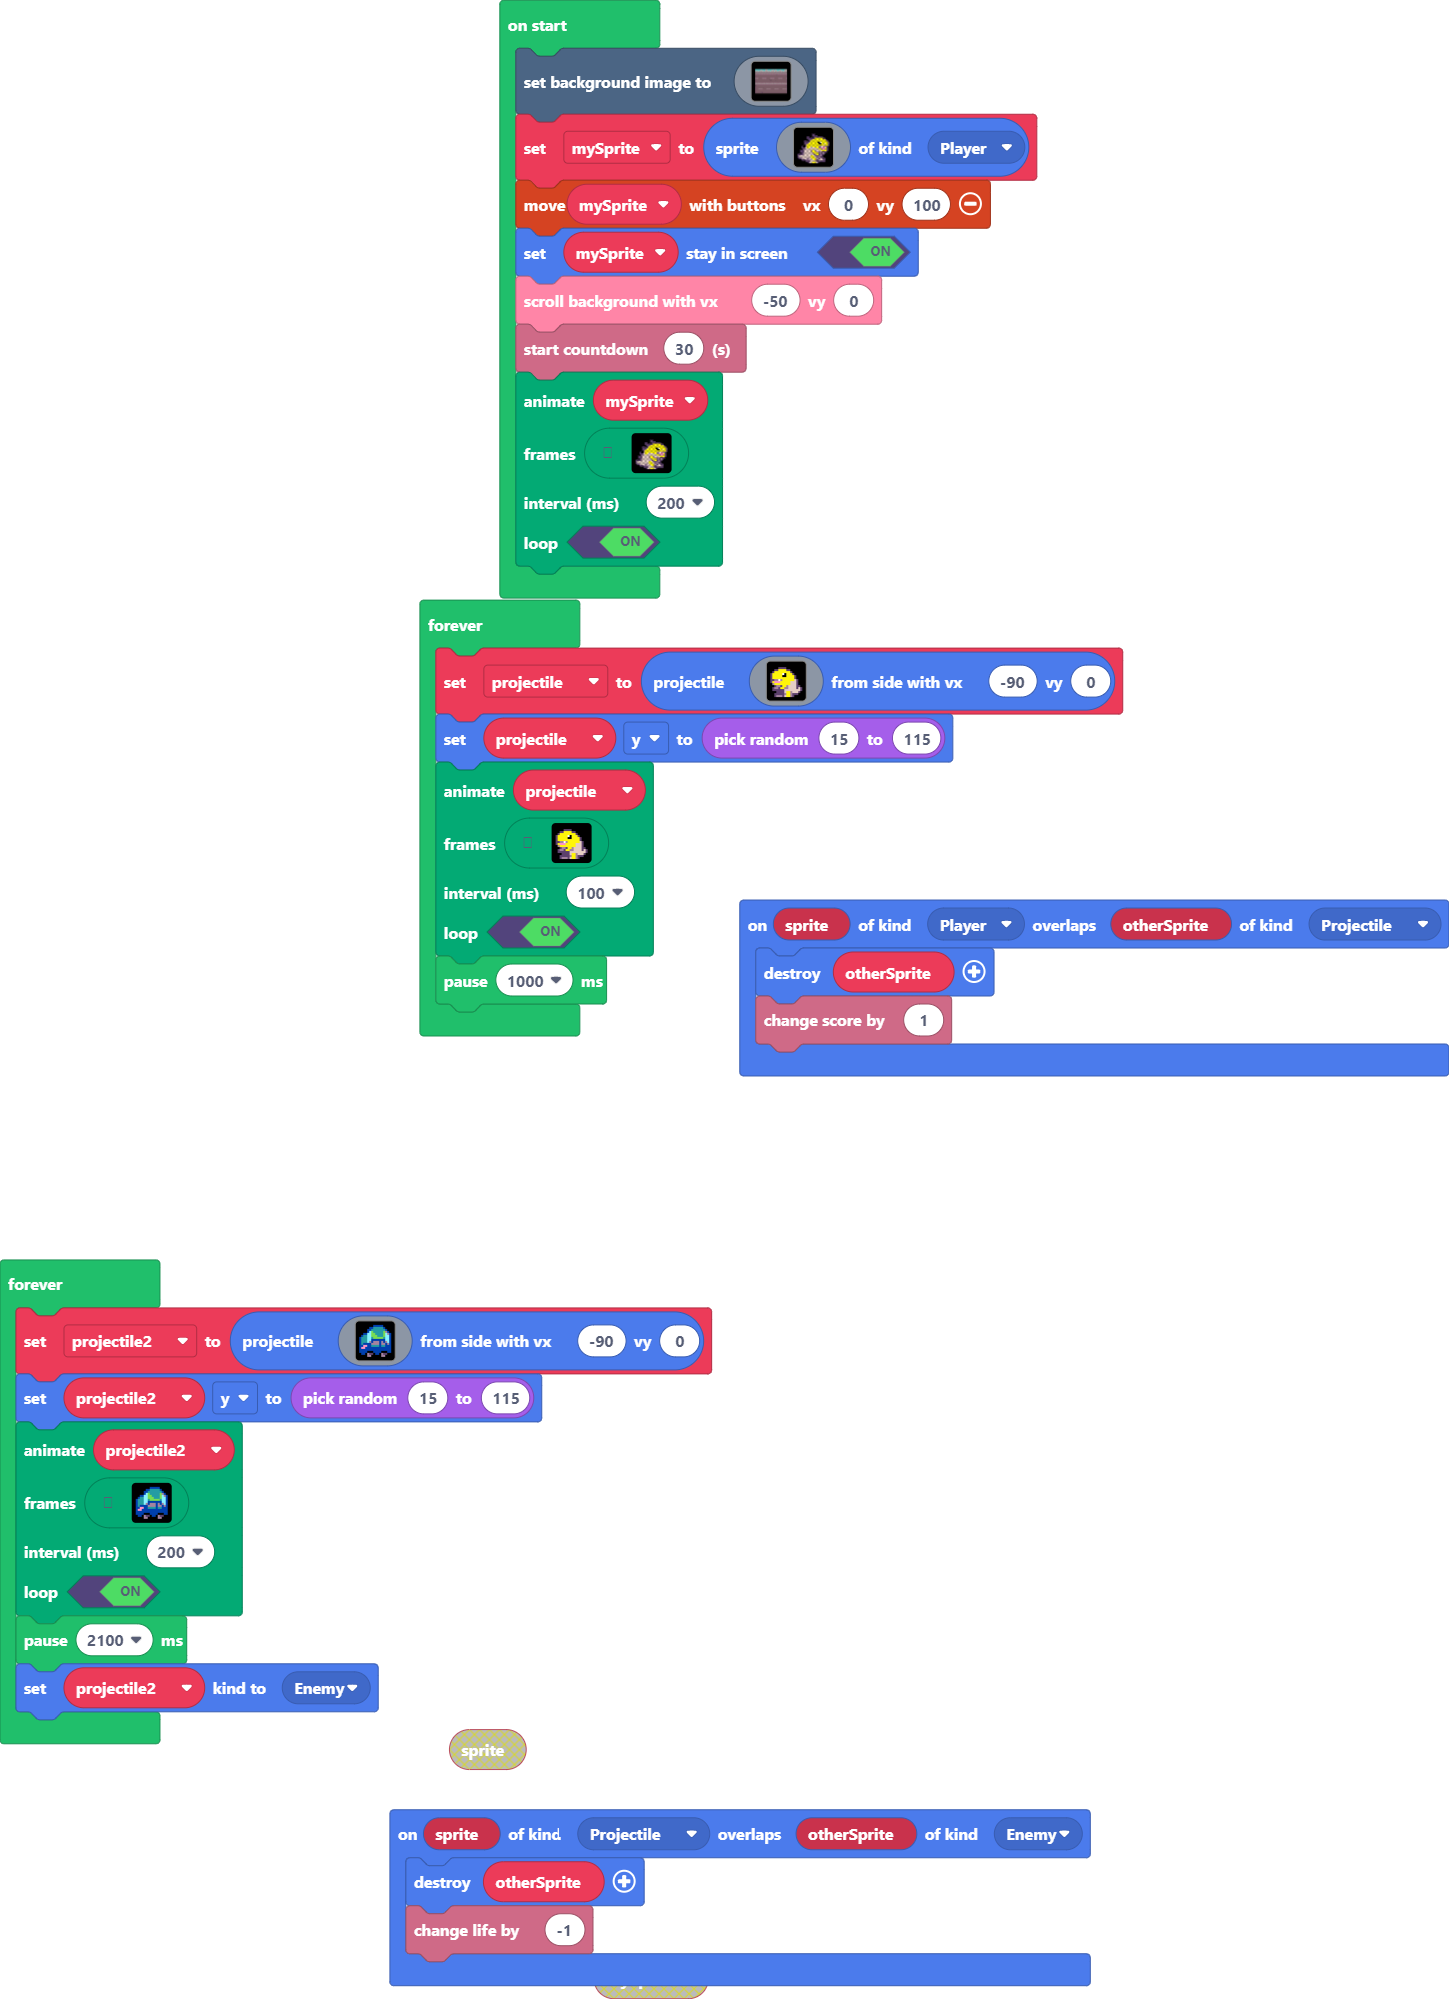
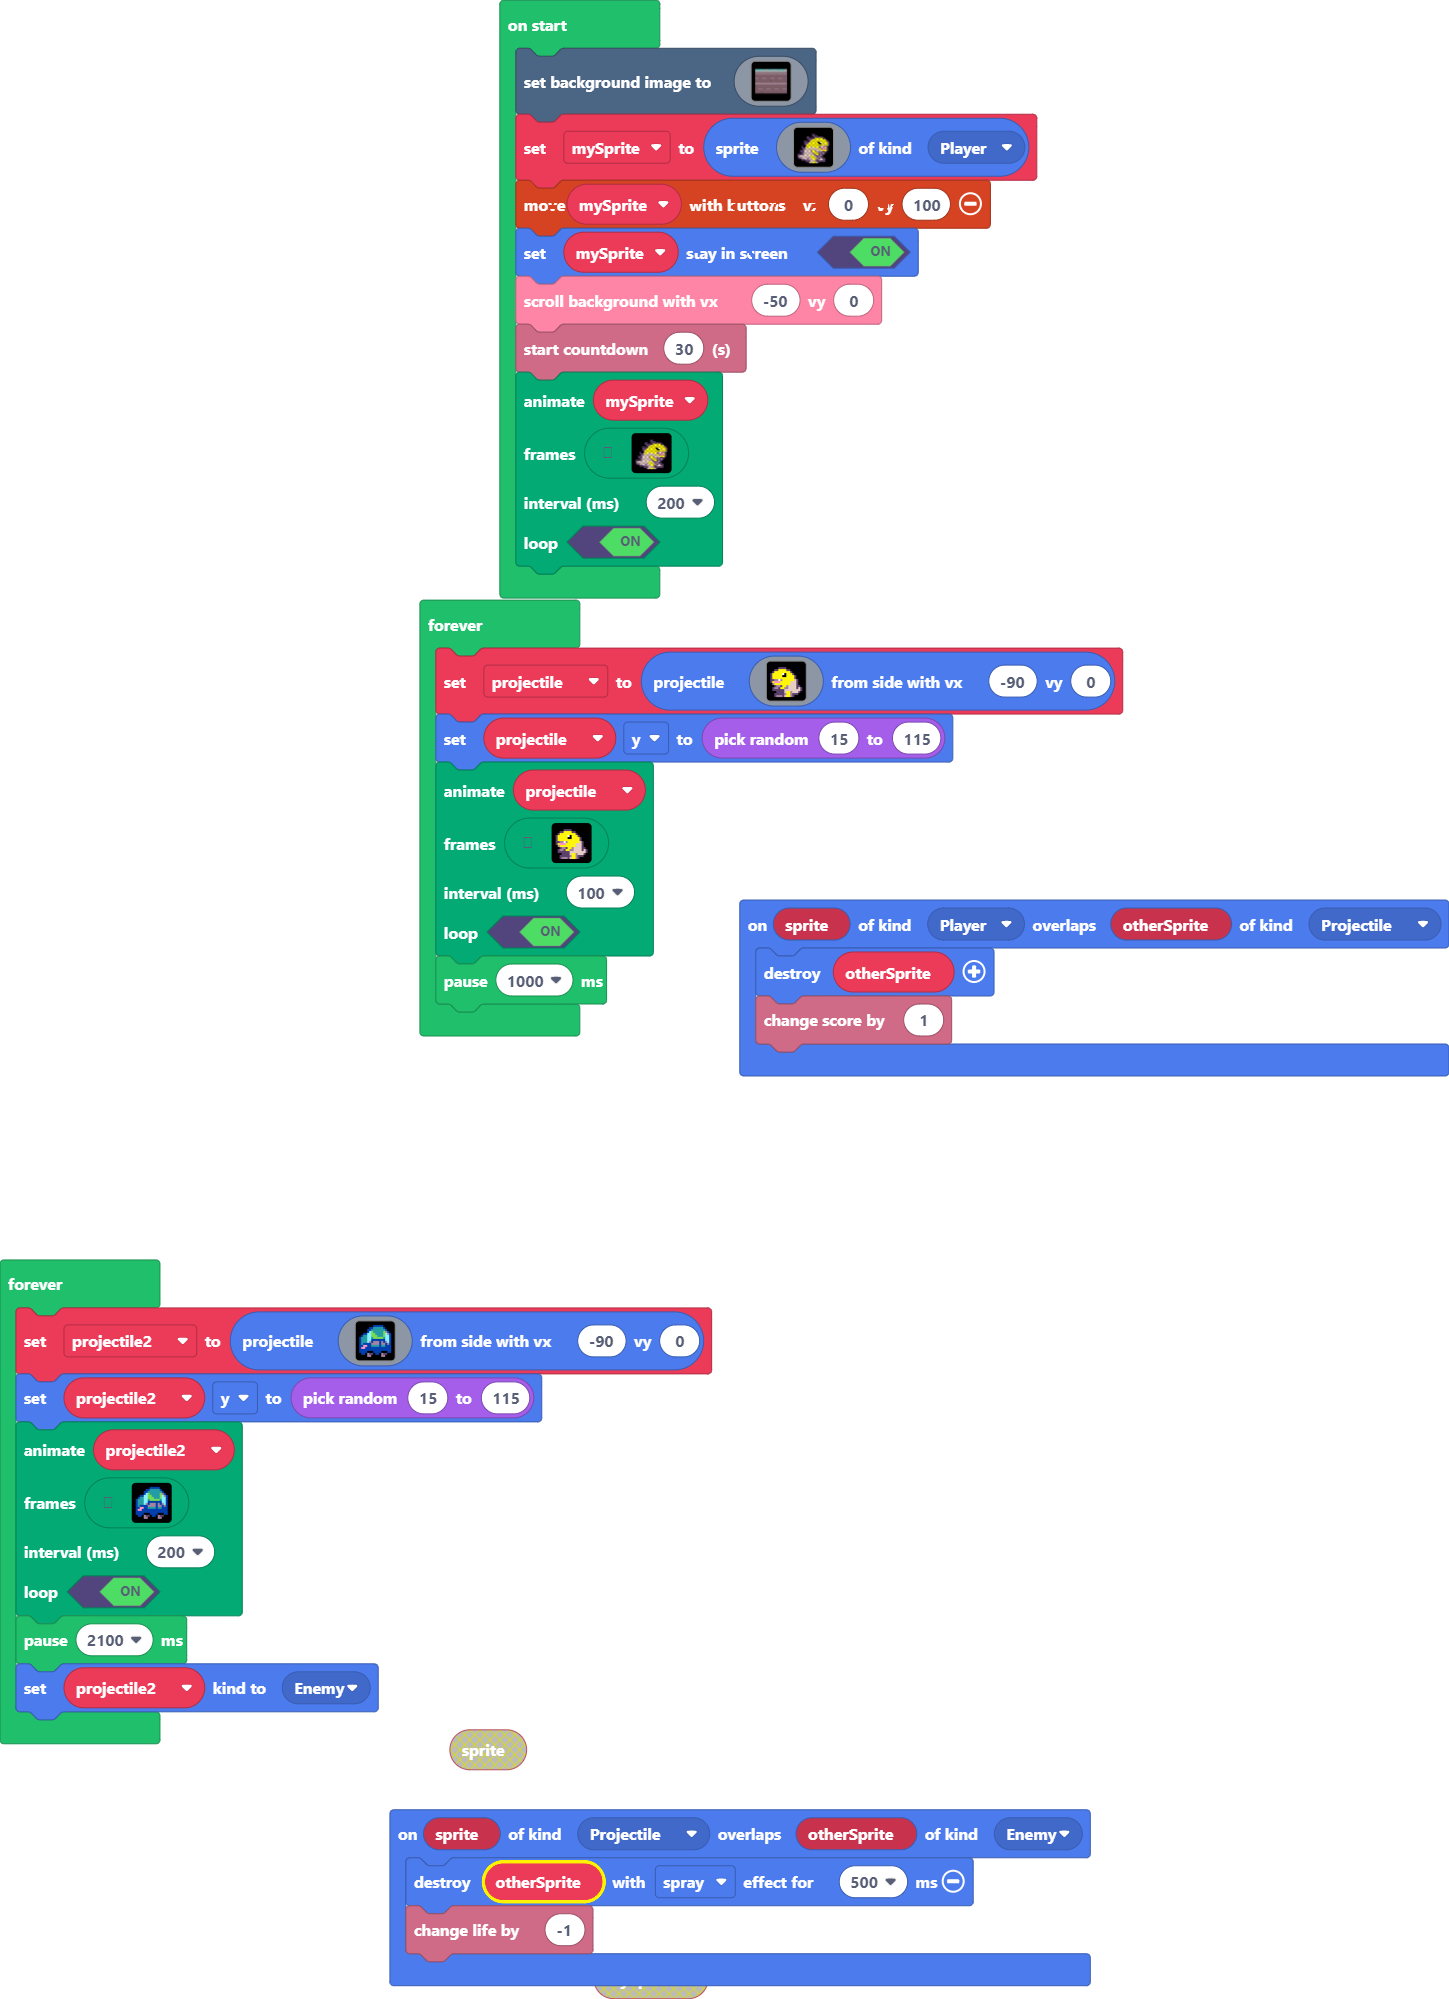
Update main.blocks, main.ts

Changed region(s): [[0.3416, 0.9305, 0.6832, 0.9615], [0.3106, 0.8684, 0.3416, 0.8994]]

diff --git a/main.ts b/main.ts
@@ -3,7 +3,7 @@ sprites.onOverlap(SpriteKind.Player, SpriteKind.Projectile, function (sprite, ot
     info.changeScoreBy(1)
 })
 sprites.onOverlap(SpriteKind.Projectile, SpriteKind.Enemy, function (sprite, otherSprite) {
-    otherSprite.destroy()
+    otherSprite.destroy(effects.spray, 500)
     info.changeLifeBy(-1)
 })
 let projectile2: Sprite = null
